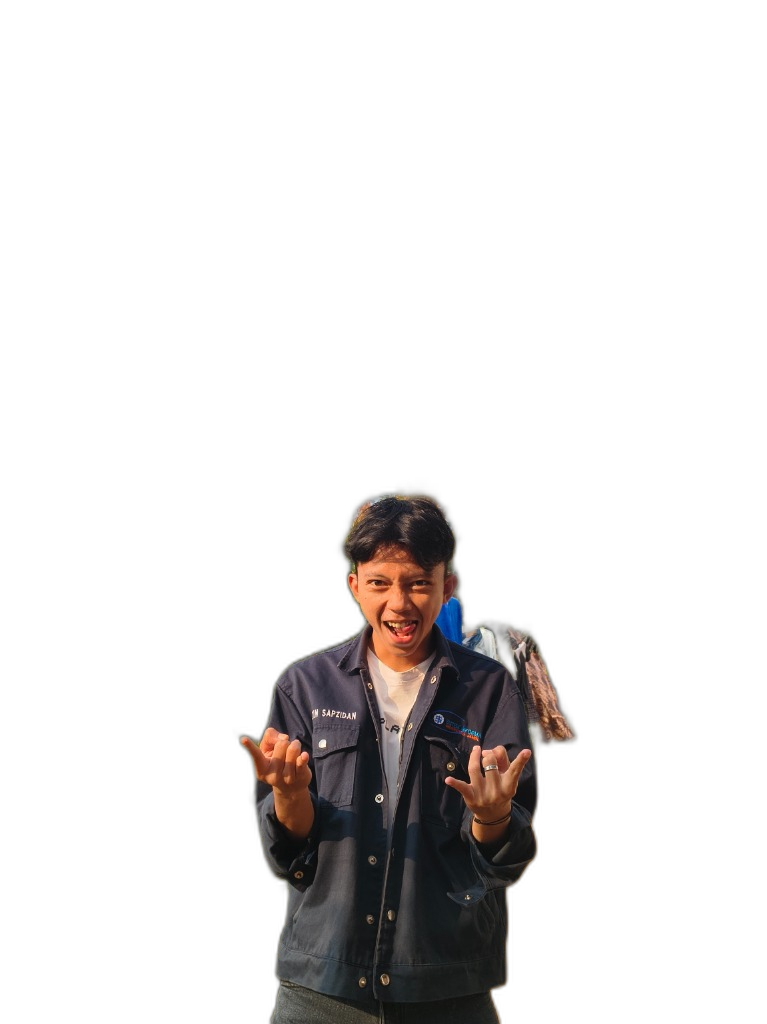
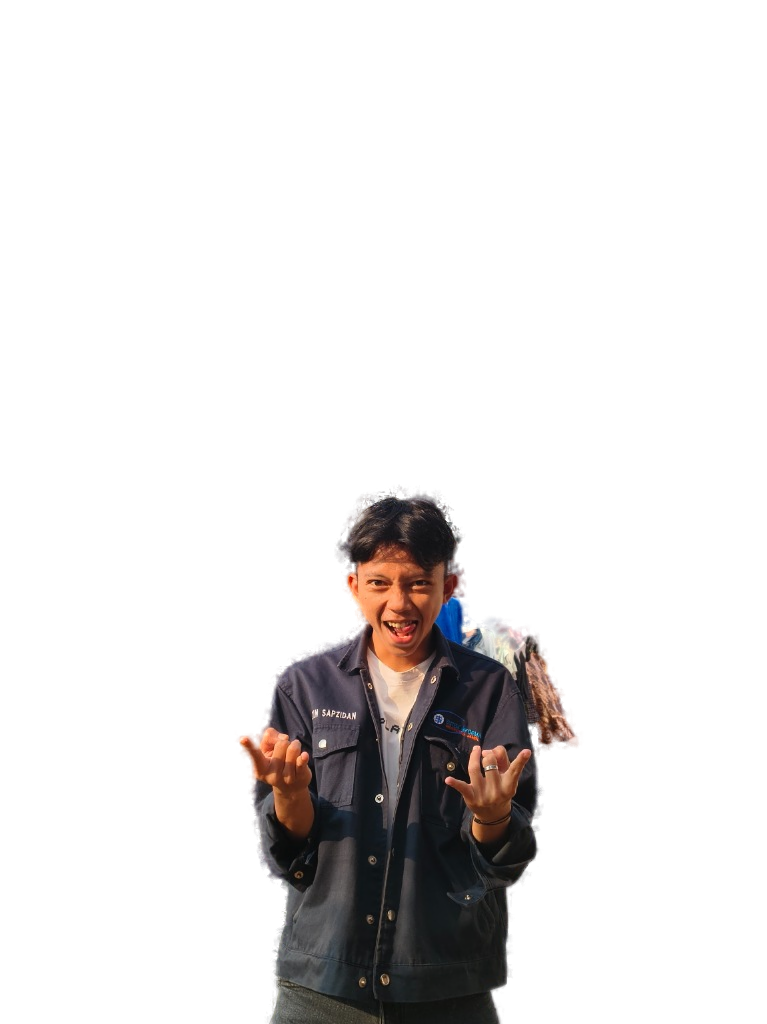
fix: regenerate foto dengan alpha matting untuk tepi yang bersih dan perbaiki posisi gambar

diff --git a/app/page.js b/app/page.js
@@ -199,20 +199,21 @@ export default function Home() {
         </div>
 
         {/* CENTER — Foto (True Transparent PNG) */}
-        <div className="relative flex items-end justify-center lg:flex-1 h-[70vw] max-h-[650px] lg:h-auto animate-fade-up z-10" style={{ animationDelay: '0.5s' }}>
+        <div className="relative flex items-end justify-center lg:flex-1 min-h-screen animate-fade-up z-10 pointer-events-none overflow-visible" style={{ animationDelay: '0.5s' }}>
           {/* Glow biru di bawah */}
-          <div className="absolute bottom-0 left-1/2 -translate-x-1/2 w-[80%] h-40 bg-blue-600/20 rounded-full filter blur-3xl pointer-events-none z-0"></div>
+          <div className="absolute bottom-0 left-1/2 -translate-x-1/2 w-[120%] h-56 bg-blue-600/25 rounded-full filter blur-3xl z-0"></div>
           
-          <div className="relative z-10 h-full w-auto" style={{
+          {/* Foto container */}
+          <div className="relative z-10 w-full h-full flex items-end justify-center" style={{
             WebkitMaskImage: 'linear-gradient(to bottom, black 80%, transparent 100%)',
             maskImage: 'linear-gradient(to bottom, black 80%, transparent 100%)'
           }}>
             <Image
               src="/foto.png"
               alt="Foto Khozin Sapzidan"
-              width={520}
-              height={680}
-              className="object-contain object-bottom h-full w-auto drop-shadow-2xl"
+              width={700}
+              height={900}
+              className="object-contain object-bottom w-full h-full max-h-[90vh]"
               priority
             />
           </div>
